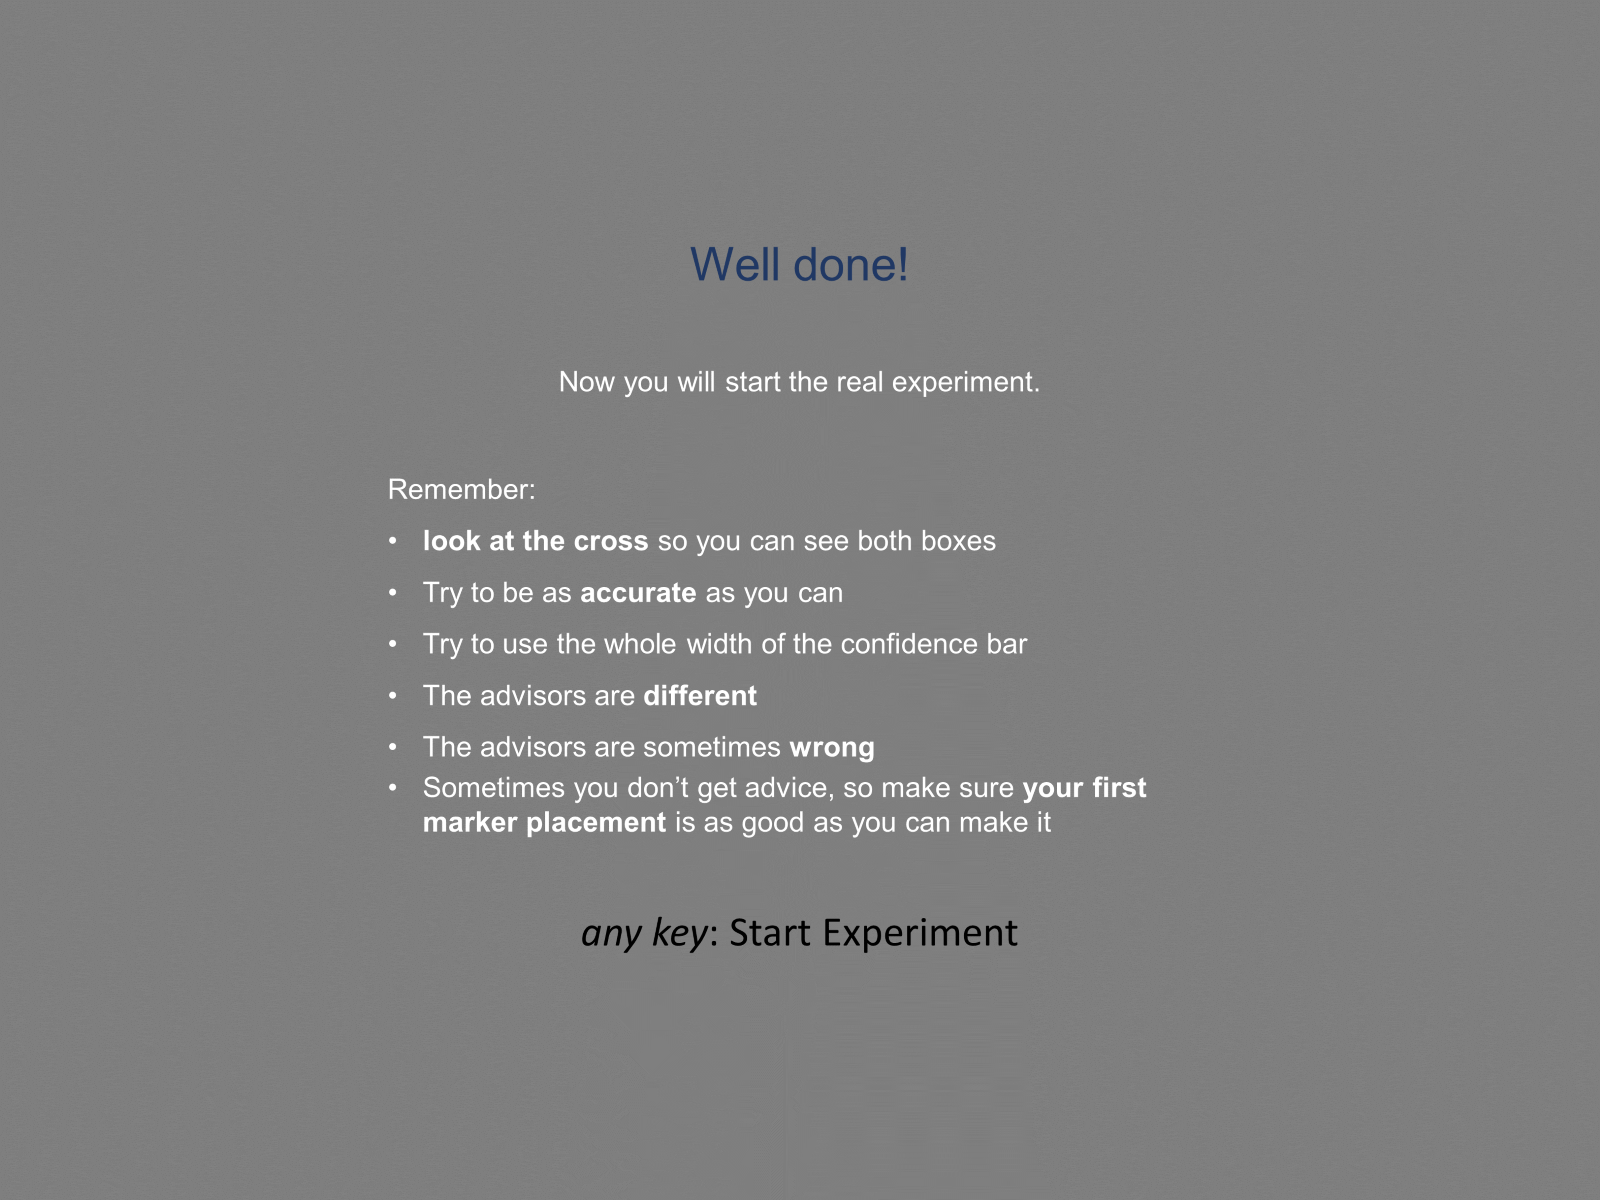
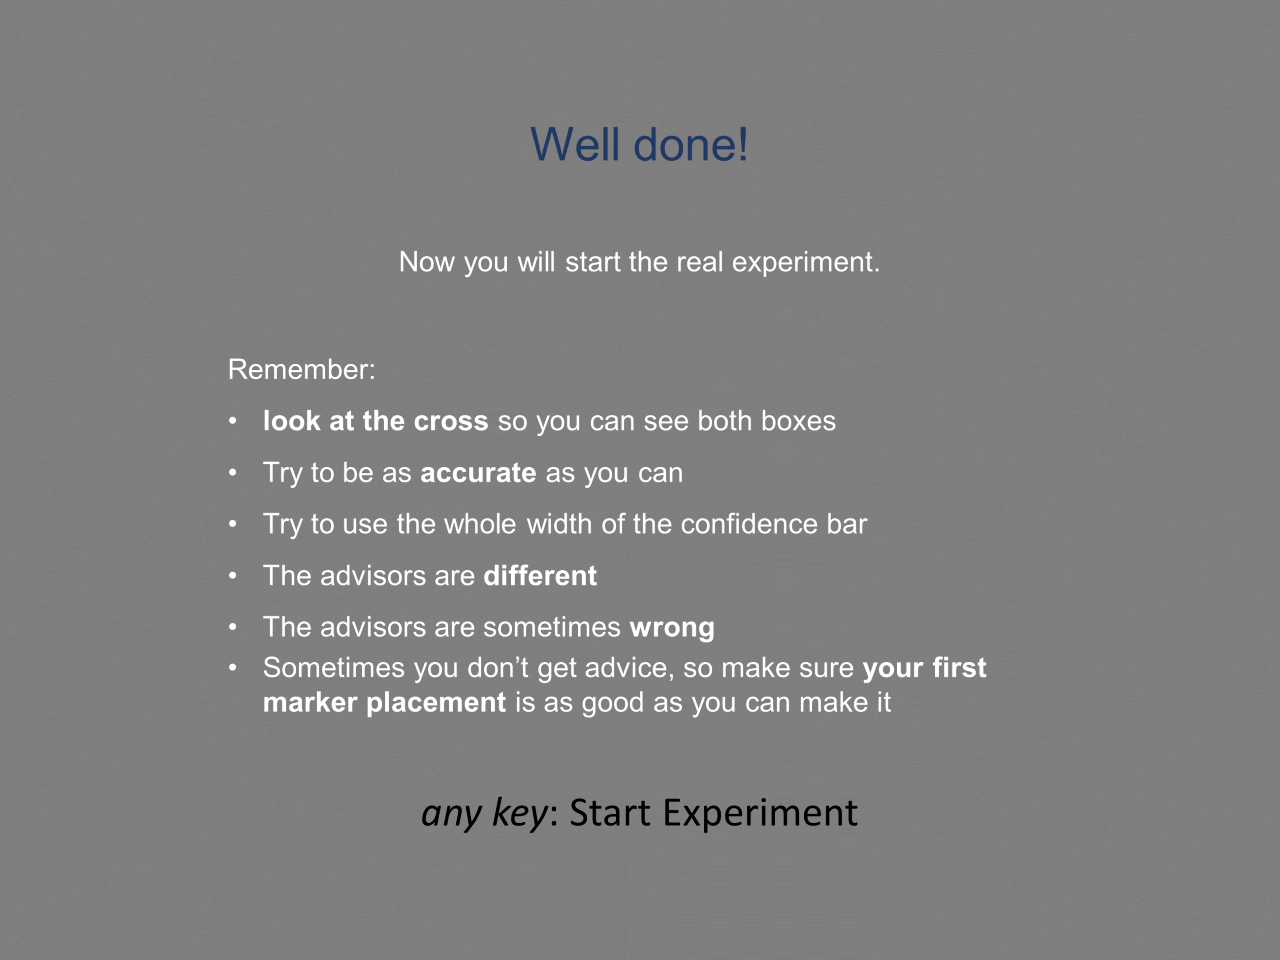
Added inital blank trial (#5)
* Run a copy of the first trial before instructions to speed up transition between instructions and first real (practice) trial
* Reduced resolution of instruction slides to 80%
* Rectangle definitions moved into cfg.rect

diff --git a/core/define_rectangles.m b/core/define_rectangles.m
@@ -1,7 +1,7 @@
 % stimulus containers definition
-innerrect1 = [Sc.rect(3)/2-160,Sc.rect(3)/2-46;Sc.rect(4)/2-57,Sc.rect(4)/2+57];
-innerrect1outer = [Sc.rect(3)/2-167,Sc.rect(3)/2-39;Sc.rect(4)/2-64,Sc.rect(4)/2+64];
-innerrect1out = [Sc.rect(3)/2-167 Sc.rect(3)/2-39 ...
+cfg.rect.innerrect1 = [Sc.rect(3)/2-160,Sc.rect(3)/2-46;Sc.rect(4)/2-57,Sc.rect(4)/2+57];
+cfg.rect.innerrect1outer = [Sc.rect(3)/2-167,Sc.rect(3)/2-39;Sc.rect(4)/2-64,Sc.rect(4)/2+64];
+cfg.rect.innerrect1out = [Sc.rect(3)/2-167 Sc.rect(3)/2-39 ...
     Sc.rect(3)/2-167 Sc.rect(3)/2-39 ...
     Sc.rect(3)/2-167 Sc.rect(3)/2-167 ...
     Sc.rect(3)/2-39 Sc.rect(3)/2-39; ...
@@ -9,9 +9,9 @@ innerrect1out = [Sc.rect(3)/2-167 Sc.rect(3)/2-39 ...
     Sc.rect(4)/2+64 Sc.rect(4)/2+64 ...
     Sc.rect(4)/2-64 Sc.rect(4)/2+64 ...
     Sc.rect(4)/2-64 Sc.rect(4)/2+64];
-innerrect2 = [Sc.rect(3)/2+46,Sc.rect(3)/2+160;Sc.rect(4)/2-57,Sc.rect(4)/2+57];
-innerrect2outer = [Sc.rect(3)/2+39,Sc.rect(3)/2+167;Sc.rect(4)/2-64,Sc.rect(4)/2+64];
-innerrect2out = [Sc.rect(3)/2+39 Sc.rect(3)/2+167 ...
+cfg.rect.innerrect2 = [Sc.rect(3)/2+46,Sc.rect(3)/2+160;Sc.rect(4)/2-57,Sc.rect(4)/2+57];
+cfg.rect.innerrect2outer = [Sc.rect(3)/2+39,Sc.rect(3)/2+167;Sc.rect(4)/2-64,Sc.rect(4)/2+64];
+cfg.rect.innerrect2out = [Sc.rect(3)/2+39 Sc.rect(3)/2+167 ...
     Sc.rect(3)/2+39 Sc.rect(3)/2+167 ...
     Sc.rect(3)/2+39 Sc.rect(3)/2+39 ...
     Sc.rect(3)/2+167 Sc.rect(3)/2+167; ...
@@ -19,7 +19,7 @@ innerrect2out = [Sc.rect(3)/2+39 Sc.rect(3)/2+167 ...
     Sc.rect(4)/2+64 Sc.rect(4)/2+64 ...
     Sc.rect(4)/2-64 Sc.rect(4)/2+64 ...
     Sc.rect(4)/2-64 Sc.rect(4)/2+64];
-center1 = [round((innerrect1(1,2)-innerrect1(1,1))*0.5+innerrect1(1,1))...
-    round((innerrect1(2,2)-innerrect1(2,1))*0.5+innerrect1(2,1))];
-center2 = [round((innerrect2(1,2)-innerrect2(1,1))*0.5+innerrect2(1,1))...
-    round((innerrect2(2,2)-innerrect2(2,1))*0.5+innerrect2(2,1))];
+cfg.rect.center1 = [round((cfg.rect.innerrect1(1,2)-cfg.rect.innerrect1(1,1))*0.5+cfg.rect.innerrect1(1,1))...
+    round((cfg.rect.innerrect1(2,2)-cfg.rect.innerrect1(2,1))*0.5+cfg.rect.innerrect1(2,1))];
+cfg.rect.center2 = [round((cfg.rect.innerrect2(1,2)-cfg.rect.innerrect2(1,1))*0.5+cfg.rect.innerrect2(1,1))...
+    round((cfg.rect.innerrect2(2,2)-cfg.rect.innerrect2(2,1))*0.5+cfg.rect.innerrect2(2,1))];

diff --git a/AdvisorChoice/main.m b/AdvisorChoice/main.m
@@ -42,6 +42,7 @@ if (subject.restarted)
     cfg.restarted = 1;
 else
     starttrial=1;
+    cfg.currentTrialNumber = starttrial;
 end
 
 Screen('Preference','SuppressAllWarnings', 1);
@@ -80,6 +81,9 @@ trials(2).dotdifference = cfg.stim.initialDotDifference;
 % initialize text on screen ?? - now done ad hoc (was previously
 % duplicated)
 %text_on_screen_vars
+
+% run a single trial first so everything's precached.
+doDotTask(trials,1);
 
 for t = starttrial:length(trials)
     disp(['text color: ' int2str(sum(Screen('TextColor',Sc.window)))]);
@@ -156,10 +160,10 @@ for t = starttrial:length(trials)
     WaitSecs(cfg.stim.fixationFlicker.time.post);
     
     % draw stimulus rectangles
-    Screen('DrawLines',Sc.window,innerrect1out,3,255);
-    Screen('DrawLines',Sc.window,innerrect2out,3,255);
-    Screen('DrawDots', Sc.window, cfg.xymatrix(:,squeeze(trials(t).wheredots(1,:))), 2, 255, center1, 2);
-    Screen('DrawDots', Sc.window, cfg.xymatrix(:,squeeze(trials(t).wheredots(2,:))), 2, 255, center2, 2);
+    Screen('DrawLines',Sc.window,cfg.rect.innerrect1out,3,255);
+    Screen('DrawLines',Sc.window,cfg.rect.innerrect2out,3,255);
+    Screen('DrawDots', Sc.window, cfg.xymatrix(:,squeeze(trials(t).wheredots(1,:))), 2, 255, cfg.rect.center1, 2);
+    Screen('DrawDots', Sc.window, cfg.xymatrix(:,squeeze(trials(t).wheredots(2,:))), 2, 255, cfg.rect.center2, 2);
     draw_static([1 1 0 0 0])
     
     % Show stimulus on screen at next possible display refresh cycle,
@@ -277,7 +281,7 @@ save([cfg.path.results osSlash subject.dir osSlash subject.fileName '_' num2str(
 
 % collect estimated observers accuracy
 trials(t).estim_obsacc = estimated_obsacc();
-
+subject.timeTaken = toc;
 %% save final file
 save([cfg.path.results osSlash subject.dir osSlash subject.fileName '_final'],'subject','cfg','trials');
 % prepare data for R

diff --git a/PoliticalDifferences/main.m b/PoliticalDifferences/main.m
@@ -192,10 +192,10 @@ for t = starttrial:length(trials)
     WaitSecs(cfg.stim.fixationFlicker.time.post);
     
     % draw stimulus rectangles
-    Screen('DrawLines',Sc.window,innerrect1out,3,255);
-    Screen('DrawLines',Sc.window,innerrect2out,3,255);
-    Screen('DrawDots', Sc.window, cfg.xymatrix(:,squeeze(trials(t).wheredots(1,:))), 2, 255, center1, 2);
-    Screen('DrawDots', Sc.window, cfg.xymatrix(:,squeeze(trials(t).wheredots(2,:))), 2, 255, center2, 2);
+    Screen('DrawLines',Sc.window,cfg.rect.innerrect1out,3,255);
+    Screen('DrawLines',Sc.window,cfg.rect.innerrect2out,3,255);
+    Screen('DrawDots', Sc.window, cfg.xymatrix(:,squeeze(trials(t).wheredots(1,:))), 2, 255, cfg.rect.center1, 2);
+    Screen('DrawDots', Sc.window, cfg.xymatrix(:,squeeze(trials(t).wheredots(2,:))), 2, 255, cfg.rect.center2, 2);
     draw_static([1 1 0 0 0])
     
     % Show stimulus on screen at next possible display refresh cycle,

diff --git a/core/doDotTask.m b/core/doDotTask.m
@@ -46,10 +46,10 @@ fixationFlicker(); %  add a flicker so the fixation cross cues the stimulus
 WaitSecs(cfg.stim.fixationFlicker.time.post);
 
 % draw stimulus rectangles
-Screen('DrawLines',Sc.window,innerrect1out,3,255);
-Screen('DrawLines',Sc.window,innerrect2out,3,255);
-Screen('DrawDots', Sc.window, cfg.xymatrix(:,squeeze(trials(t).wheredots(1,:))), 2, 255, center1, 2);
-Screen('DrawDots', Sc.window, cfg.xymatrix(:,squeeze(trials(t).wheredots(2,:))), 2, 255, center2, 2);
+Screen('DrawLines',Sc.window,cfg.rect.innerrect1out,3,255);
+Screen('DrawLines',Sc.window,cfg.rect.innerrect2out,3,255);
+Screen('DrawDots', Sc.window, cfg.xymatrix(:,squeeze(trials(t).wheredots(1,:))), 2, 255, cfg.rect.center1, 2);
+Screen('DrawDots', Sc.window, cfg.xymatrix(:,squeeze(trials(t).wheredots(2,:))), 2, 255, cfg.rect.center2, 2);
 draw_static([1 1 0 0 0])
 
 % Show stimulus on screen at next possible display refresh cycle,

diff --git a/AdvisorChoice/screenTests.m b/AdvisorChoice/screenTests.m
@@ -77,13 +77,18 @@ trials(2).dotdifference = cfg.stim.initialDotDifference;
 %draw_static(Sc, cfg)
 %Screen('Flip',Sc.window);
 
+instructions(1);
+instructions(2);
+instructions(3);
+instructions(4);
+
 %introduce_observers
 
 %questionnaire(1);
 
 %getAdvisorChoice(NaN, 2);
 
-estimated_obsacc();
+%estimated_obsacc();
 
 %[a, b, c] = SECS
 

diff --git a/launcher.m b/launcher.m
@@ -16,8 +16,8 @@ clc;
 %experimentName = 'HaloEffect';
 experimentName = 'AdvisorChoice';
 %experimentName = 'PoliticalDifferences';
-%forceResolution = [];
-forceResolution = [1600 1200];
+forceResolution = [];
+%forceResolution = [1600 1200];
 feedbackEnabled = 0; 
 debugMode = 1;
 shortMode = 1;
